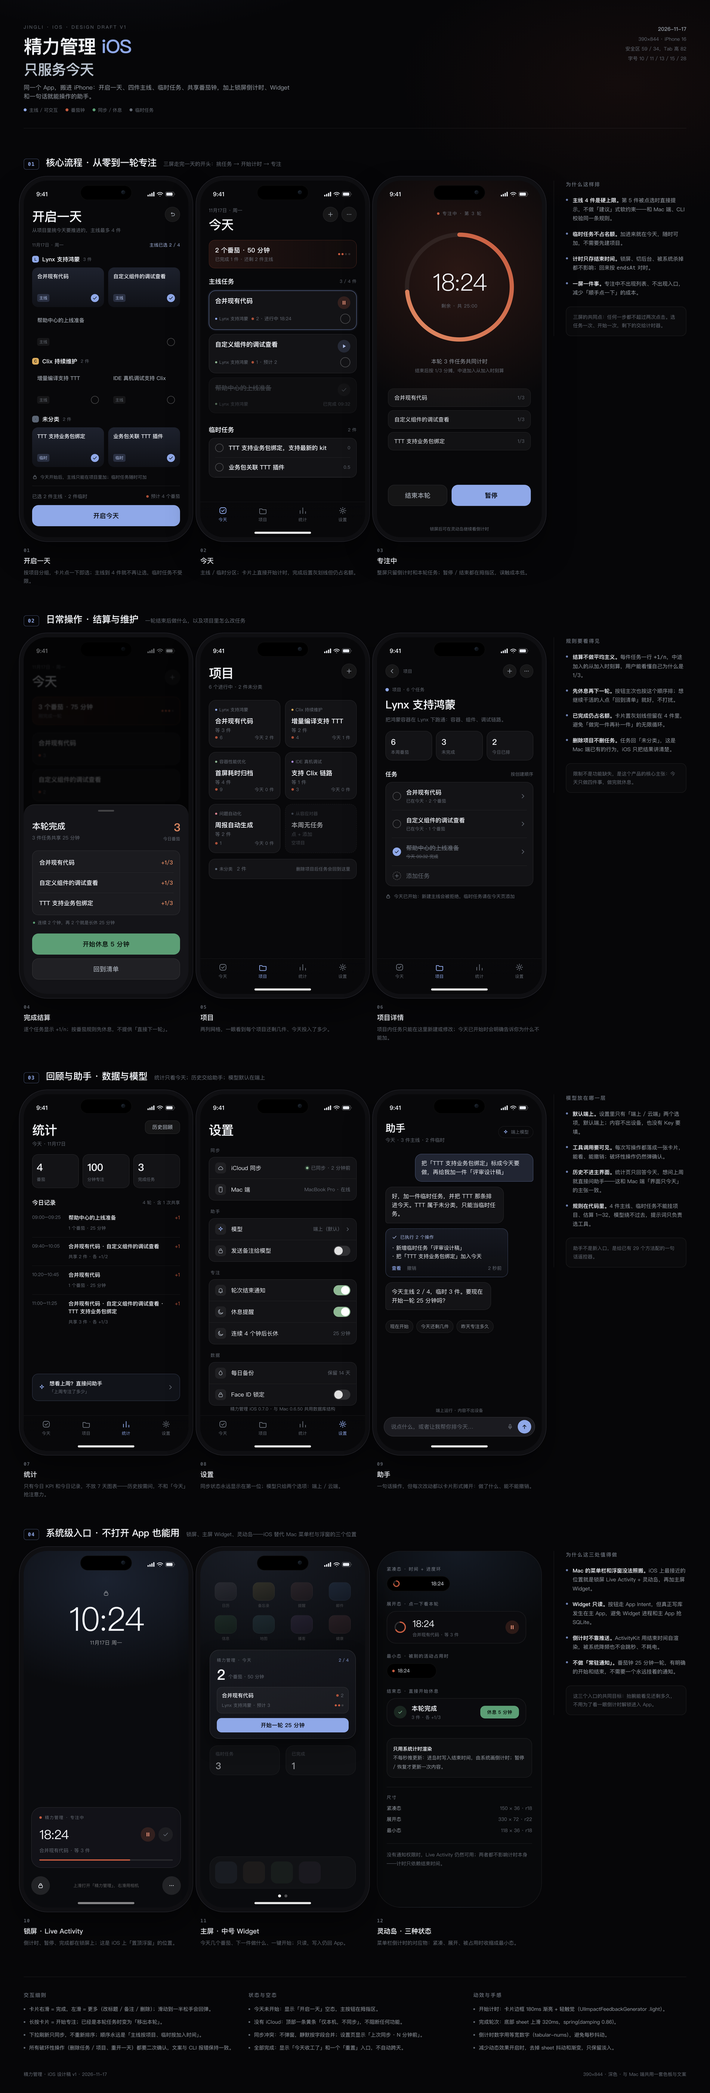
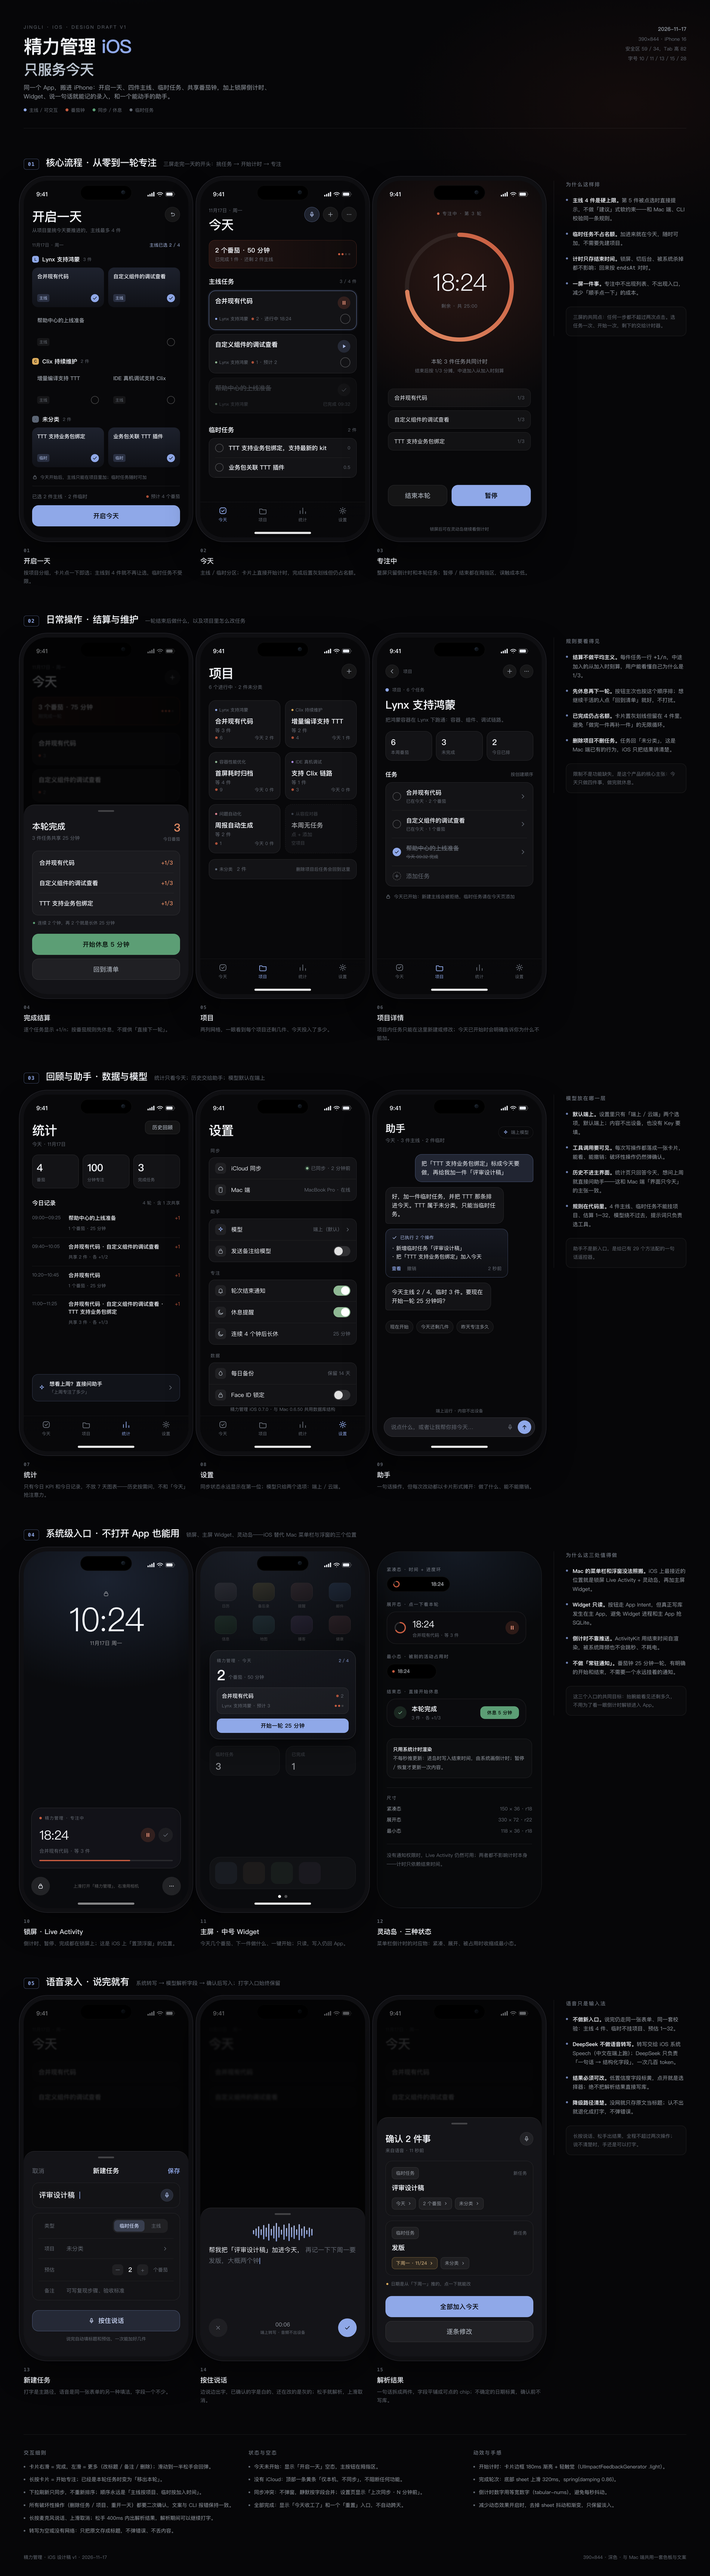
docs(ios): add voice entry screens and voice pipeline notes

diff --git a/Design/ios-design.html b/Design/ios-design.html
@@ -112,6 +112,20 @@
   .btn.ghost{background:rgba(255,255,255,.05);color:var(--text2);border:1px solid var(--line)}
   .btn.sm{height:36px;font-size:13px;border-radius:11px;padding:0 16px}
 
+  /* ---------- 语音录入 ---------- */
+  .seg{display:flex;background:rgba(255,255,255,.06);border-radius:11px;padding:3px;gap:3px}
+  .seg span{padding:5px 13px;border-radius:8px;font-size:11.5px;color:var(--text3)}
+  .seg span.on{background:rgba(143,168,232,.22);color:#C7D3F2;font-weight:500}
+  .field{display:flex;align-items:center;gap:10px;padding:13px 14px;border-bottom:1px solid rgba(255,255,255,.05);font-size:13.5px}
+  .field:last-child{border-bottom:0}
+  .field .k{color:var(--text3);font-size:12px;width:42px;flex:none}
+  .chipbtn{display:inline-flex;align-items:center;gap:5px;font-size:11px;padding:5px 9px;border-radius:8px;
+           background:rgba(255,255,255,.05);color:var(--text2);border:1px solid rgba(255,255,255,.07)}
+  .chipbtn.warn{background:rgba(219,171,92,.13);border-color:rgba(219,171,92,.34);color:#E8C48C}
+  .wave{display:flex;align-items:center;justify-content:center;gap:3px;height:46px}
+  .wave i{width:3px;border-radius:2px;background:linear-gradient(180deg,#B7C6F0,#8FA8E8);opacity:.9}
+  .caret{display:inline-block;width:1.5px;height:17px;background:var(--accent);vertical-align:-3px;margin-left:1px}
+
   /* ---------- 屏幕专有 ---------- */
   .grouphead{display:flex;align-items:center;gap:8px;margin:14px 0 9px}
   .grouphead .gdot{width:16px;height:16px;border-radius:5px;display:grid;place-items:center;font-size:9px;color:#0A0D14;font-weight:700}
@@ -269,6 +283,7 @@
 <body>
 <svg width="0" height="0" style="position:absolute" aria-hidden="true"><defs>
   <symbol id="i-check" viewBox="0 0 24 24"><path d="M5 12.5l4.6 4.6L19 7"/></symbol>
+  <symbol id="i-x" viewBox="0 0 24 24"><path d="M6.5 6.5l11 11M17.5 6.5l-11 11"/></symbol>
   <symbol id="i-plus" viewBox="0 0 24 24"><path d="M12 5v14M5 12h14"/></symbol>
   <symbol id="i-play" viewBox="0 0 24 24"><path d="M8.4 5.6l10 6.4-10 6.4z" fill="currentColor" stroke="none"/></symbol>
   <symbol id="i-pause" viewBox="0 0 24 24"><rect x="7.2" y="5" width="3.4" height="14" rx="1.2" fill="currentColor" stroke="none"/><rect x="13.4" y="5" width="3.4" height="14" rx="1.2" fill="currentColor" stroke="none"/></symbol>
@@ -298,7 +313,7 @@
     <div>
       <div class="eyebrow">Jingli · iOS · Design Draft v1</div>
       <h1>精力管理 <em>iOS</em><br><span style="font-size:34px;font-weight:600;color:#B9C2CE;letter-spacing:-.8px">只服务今天</span></h1>
-      <p class="lede">同一个 App，搬进 iPhone：开启一天、四件主线、临时任务、共享番茄钟，加上锁屏倒计时、Widget 和一句话就能操作的助手。</p>
+      <p class="lede">同一个 App，搬进 iPhone：开启一天、四件主线、临时任务、共享番茄钟，加上锁屏倒计时、Widget、说一句话就能记的录入，和一个能动手的助手。</p>
       <div class="legend">
         <span><i style="background:#8FA8E8"></i>主线 / 可交互</span>
         <span><i style="background:#C75C40"></i>番茄钟</span>
@@ -428,6 +443,8 @@
                 <h2 style="font-size:30px">今天</h2>
               </div>
               <div style="display:flex;gap:8px">
+                <div class="iconbtn lg" style="background:rgba(143,168,232,.16);color:#AFC0EC;border-color:rgba(143,168,232,.3)">
+                  <svg class="ic sm"><use href="#i-mic"/></svg></div>
                 <div class="iconbtn lg"><svg class="ic sm"><use href="#i-plus"/></svg></div>
                 <div class="iconbtn lg"><svg class="ic sm"><use href="#i-more"/></svg></div>
               </div>
@@ -1274,6 +1291,226 @@
     </div>
   </section>
 
+  <!-- ================= 05 语音录入 ================= -->
+  <section class="section" id="row5">
+    <div class="sec-head">
+      <span class="sec-no">05</span>
+      <span class="sec-title">语音录入 · 说完就有</span>
+      <span class="sec-desc">系统转写 → 模型解析字段 → 确认后写入；打字入口始终保留</span>
+    </div>
+    <div class="row">
+
+      <!-- 13 添加任务 -->
+      <div class="frame">
+        <div class="phone">
+          <div class="island"></div>
+          <div class="statusbar"><span>9:41</span><span class="right">
+            <svg width="17" height="11" viewBox="0 0 17 11" fill="currentColor"><rect x="0" y="7" width="3" height="4" rx="1"/><rect x="4.5" y="5" width="3" height="6" rx="1"/><rect x="9" y="2.6" width="3" height="8.4" rx="1"/><rect x="13.5" y="0" width="3" height="11" rx="1"/></svg>
+            <svg width="15" height="11" viewBox="0 0 15 11" fill="none" stroke="currentColor" stroke-width="1.6" stroke-linecap="round"><path d="M1 4.2a9 9 0 0 1 13 0"/><path d="M3.6 6.9a5.6 5.6 0 0 1 7.8 0"/><circle cx="7.5" cy="10" r=".9" fill="currentColor" stroke="none"/></svg>
+            <svg width="25" height="12" viewBox="0 0 25 12" fill="none"><rect x=".6" y=".6" width="20" height="10.8" rx="3.2" stroke="currentColor" opacity=".4"/><rect x="2.4" y="2.4" width="15" height="7.2" rx="2" fill="currentColor"/><path d="M22.4 4.2v3.6a2.4 2.4 0 0 0 0-3.6z" fill="currentColor" opacity=".5"/></svg>
+          </span></div>
+
+          <div class="screen tabbed" style="filter:blur(1.4px);opacity:.32">
+            <div class="nav" style="height:auto"><div><div class="sub" style="margin:0 0 2px">11月17日 · 周一</div><h2 style="font-size:30px">今天</h2></div></div>
+            <div class="task" style="margin-top:20px"><div class="r1"><h4>合并现有代码</h4></div></div>
+            <div class="task"><div class="r1"><h4>自定义组件的调试查看</h4></div></div>
+          </div>
+
+          <div class="sheetwrap">
+            <div class="sheet" style="height:486px;display:flex;flex-direction:column">
+              <div class="handle"></div>
+              <div style="display:flex;align-items:center;justify-content:space-between;margin-bottom:16px">
+                <span style="font-size:14.5px;color:var(--text3)">取消</span>
+                <b style="font-size:15.5px">新建任务</b>
+                <span style="font-size:14.5px;color:var(--accent);font-weight:600">保存</span>
+              </div>
+
+              <div class="card" style="padding:14px 15px;display:flex;align-items:center;gap:10px">
+                <span style="font-size:17px;font-weight:500">评审设计稿</span><span class="caret"></span>
+                <div class="iconbtn" style="margin-left:auto;width:30px;height:30px;background:rgba(143,168,232,.16);color:#AFC0EC">
+                  <svg class="ic sm"><use href="#i-mic"/></svg>
+                </div>
+              </div>
+
+              <div class="card" style="margin-top:12px;padding:0 14px">
+                <div class="field">
+                  <span class="k">类型</span>
+                  <div class="seg" style="margin-left:auto"><span class="on">临时任务</span><span>主线</span></div>
+                </div>
+                <div class="field">
+                  <span class="k">项目</span>
+                  <span style="color:var(--text3)">未分类</span>
+                  <svg class="ic xs" style="margin-left:auto;color:var(--text3)"><use href="#i-chev"/></svg>
+                </div>
+                <div class="field">
+                  <span class="k">预估</span>
+                  <div style="display:flex;align-items:center;gap:12px;margin-left:auto">
+                    <span style="width:26px;height:26px;border-radius:8px;background:rgba(255,255,255,.06);display:grid;place-items:center;color:var(--text3)">−</span>
+                    <b style="font-size:15px;font-variant-numeric:tabular-nums">2</b>
+                    <span style="width:26px;height:26px;border-radius:8px;background:rgba(255,255,255,.06);display:grid;place-items:center;color:var(--text3)">+</span>
+                    <span style="font-size:11.5px;color:var(--text3)">个番茄</span>
+                  </div>
+                </div>
+                <div class="field">
+                  <span class="k">备注</span>
+                  <span style="color:var(--text3);font-size:12.5px">可写复现步骤、验收标准</span>
+                </div>
+              </div>
+
+              <div style="margin-top:auto;padding-top:18px">
+                <div class="btn" style="background:rgba(143,168,232,.14);border:1px solid rgba(143,168,232,.3);color:#C7D3F2;gap:8px;display:flex;align-items:center;justify-content:center">
+                  <svg class="ic sm"><use href="#i-mic"/></svg>按住说话
+                </div>
+                <div style="margin-top:10px;text-align:center;font-size:10.5px;color:var(--text3)">
+                  说完自动填标题和预估，一次能加好几件
+                </div>
+              </div>
+            </div>
+          </div>
+          <div class="homebar"></div>
+        </div>
+        <div class="caption">
+          <div class="no">13</div><h3>新建任务</h3>
+          <p>打字是主路径，语音是同一张表单的另一种填法，字段一个不少。</p>
+        </div>
+      </div>
+
+      <!-- 14 录音中 -->
+      <div class="frame">
+        <div class="phone">
+          <div class="island"></div>
+          <div class="statusbar"><span>9:41</span><span class="right">
+            <svg width="17" height="11" viewBox="0 0 17 11" fill="currentColor"><rect x="0" y="7" width="3" height="4" rx="1"/><rect x="4.5" y="5" width="3" height="6" rx="1"/><rect x="9" y="2.6" width="3" height="8.4" rx="1"/><rect x="13.5" y="0" width="3" height="11" rx="1"/></svg>
+            <svg width="15" height="11" viewBox="0 0 15 11" fill="none" stroke="currentColor" stroke-width="1.6" stroke-linecap="round"><path d="M1 4.2a9 9 0 0 1 13 0"/><path d="M3.6 6.9a5.6 5.6 0 0 1 7.8 0"/><circle cx="7.5" cy="10" r=".9" fill="currentColor" stroke="none"/></svg>
+            <svg width="25" height="12" viewBox="0 0 25 12" fill="none"><rect x=".6" y=".6" width="20" height="10.8" rx="3.2" stroke="currentColor" opacity=".4"/><rect x="2.4" y="2.4" width="15" height="7.2" rx="2" fill="currentColor"/><path d="M22.4 4.2v3.6a2.4 2.4 0 0 0 0-3.6z" fill="currentColor" opacity=".5"/></svg>
+          </span></div>
+
+          <div class="screen tabbed" style="filter:blur(2px);opacity:.3">
+            <div class="nav" style="height:auto"><div><div class="sub" style="margin:0 0 2px">11月17日 · 周一</div><h2 style="font-size:30px">今天</h2></div></div>
+            <div class="task" style="margin-top:20px"><div class="r1"><h4>合并现有代码</h4></div></div>
+            <div class="task"><div class="r1"><h4>自定义组件的调试查看</h4></div></div>
+          </div>
+
+          <div class="sheetwrap" style="background:rgba(0,0,0,.62)">
+            <div class="sheet" style="height:352px;display:flex;flex-direction:column">
+              <div class="handle"></div>
+
+              <div class="wave">
+                <i style="height:10px"></i><i style="height:18px"></i><i style="height:28px"></i><i style="height:14px"></i>
+                <i style="height:34px"></i><i style="height:22px"></i><i style="height:40px"></i><i style="height:16px"></i>
+                <i style="height:30px"></i><i style="height:44px"></i><i style="height:26px"></i><i style="height:12px"></i>
+                <i style="height:36px"></i><i style="height:20px"></i><i style="height:42px"></i><i style="height:24px"></i>
+                <i style="height:32px"></i><i style="height:14px"></i><i style="height:38px"></i><i style="height:18px"></i>
+                <i style="height:28px"></i><i style="height:10px"></i><i style="height:22px"></i><i style="height:16px"></i>
+              </div>
+
+              <div style="margin-top:6px;font-size:15px;line-height:1.7;letter-spacing:-.1px">
+                帮我把「评审设计稿」加进今天，
+                <span style="color:var(--text3)">再记一下下周一要发版，大概两个钟</span><span class="caret" style="height:15px"></span>
+              </div>
+
+              <div style="display:flex;align-items:center;justify-content:space-between;margin-top:auto;padding-bottom:12px">
+                <div class="circle ghost" style="width:44px;height:44px"><svg class="ic sm"><use href="#i-x"/></svg></div>
+                <div style="text-align:center">
+                  <div style="font-size:13px;font-variant-numeric:tabular-nums;color:var(--text2)">00:06</div>
+                  <div style="font-size:9.5px;color:var(--text3);margin-top:2px">端上转写 · 音频不出设备</div>
+                </div>
+                <div class="circle" style="width:44px;height:44px;background:var(--accent);color:#0A0D14">
+                  <svg class="ic sm"><use href="#i-check"/></svg></div>
+              </div>
+            </div>
+          </div>
+          <div class="homebar"></div>
+        </div>
+        <div class="caption">
+          <div class="no">14</div><h3>按住说话</h3>
+          <p>边说边出字，已确认的字是白的、还在改的是灰的；松手就解析，上滑取消。</p>
+        </div>
+      </div>
+
+      <!-- 15 解析结果 -->
+      <div class="frame">
+        <div class="phone">
+          <div class="island"></div>
+          <div class="statusbar"><span>9:41</span><span class="right">
+            <svg width="17" height="11" viewBox="0 0 17 11" fill="currentColor"><rect x="0" y="7" width="3" height="4" rx="1"/><rect x="4.5" y="5" width="3" height="6" rx="1"/><rect x="9" y="2.6" width="3" height="8.4" rx="1"/><rect x="13.5" y="0" width="3" height="11" rx="1"/></svg>
+            <svg width="15" height="11" viewBox="0 0 15 11" fill="none" stroke="currentColor" stroke-width="1.6" stroke-linecap="round"><path d="M1 4.2a9 9 0 0 1 13 0"/><path d="M3.6 6.9a5.6 5.6 0 0 1 7.8 0"/><circle cx="7.5" cy="10" r=".9" fill="currentColor" stroke="none"/></svg>
+            <svg width="25" height="12" viewBox="0 0 25 12" fill="none"><rect x=".6" y=".6" width="20" height="10.8" rx="3.2" stroke="currentColor" opacity=".4"/><rect x="2.4" y="2.4" width="15" height="7.2" rx="2" fill="currentColor"/><path d="M22.4 4.2v3.6a2.4 2.4 0 0 0 0-3.6z" fill="currentColor" opacity=".5"/></svg>
+          </span></div>
+
+          <div class="screen tabbed" style="filter:blur(1.4px);opacity:.3">
+            <div class="nav" style="height:auto"><div><div class="sub" style="margin:0 0 2px">11月17日 · 周一</div><h2 style="font-size:30px">今天</h2></div></div>
+            <div class="task" style="margin-top:20px"><div class="r1"><h4>合并现有代码</h4></div></div>
+            <div class="task"><div class="r1"><h4>自定义组件的调试查看</h4></div></div>
+          </div>
+
+          <div class="sheetwrap">
+            <div class="sheet" style="height:566px;display:flex;flex-direction:column">
+              <div class="handle"></div>
+              <div style="display:flex;align-items:flex-start;justify-content:space-between;margin-bottom:16px">
+                <div>
+                  <div style="font-size:21px;font-weight:700;letter-spacing:-.5px">确认 2 件事</div>
+                  <div style="font-size:11px;color:var(--text3);margin-top:4px">来自语音 · 11 秒前</div>
+                </div>
+                <div class="iconbtn"><svg class="ic sm"><use href="#i-mic"/></svg></div>
+              </div>
+
+              <div class="card" style="padding:14px">
+                <div style="display:flex;align-items:center;gap:7px">
+                  <span class="chipbtn">临时任务</span>
+                  <span class="tag" style="margin-left:auto">新任务</span>
+                </div>
+                <div style="font-size:15.5px;font-weight:600;margin-top:9px;letter-spacing:-.2px">评审设计稿</div>
+                <div style="display:flex;gap:7px;margin-top:11px;flex-wrap:wrap">
+                  <span class="chipbtn">今天<svg class="ic xs" style="width:10px;height:10px"><use href="#i-chev"/></svg></span>
+                  <span class="chipbtn">2 个番茄<svg class="ic xs" style="width:10px;height:10px"><use href="#i-chev"/></svg></span>
+                  <span class="chipbtn">未分类<svg class="ic xs" style="width:10px;height:10px"><use href="#i-chev"/></svg></span>
+                </div>
+              </div>
+
+              <div class="card" style="padding:14px;margin-top:11px">
+                <div style="display:flex;align-items:center;gap:7px">
+                  <span class="chipbtn">临时任务</span>
+                  <span class="tag" style="margin-left:auto">新任务</span>
+                </div>
+                <div style="font-size:15.5px;font-weight:600;margin-top:9px;letter-spacing:-.2px">发版</div>
+                <div style="display:flex;gap:7px;margin-top:11px;flex-wrap:wrap">
+                  <span class="chipbtn warn">下周一 · 11/24<svg class="ic xs" style="width:10px;height:10px"><use href="#i-chev"/></svg></span>
+                  <span class="chipbtn">未分类<svg class="ic xs" style="width:10px;height:10px"><use href="#i-chev"/></svg></span>
+                </div>
+              </div>
+
+              <div style="display:flex;align-items:center;gap:6px;margin:12px 2px 0;font-size:10.5px;color:var(--text3)">
+                <span style="width:5px;height:5px;border-radius:50%;background:var(--amber)"></span>日期是从「下周一」推的，点一下就能改
+              </div>
+
+              <div style="margin-top:auto;padding-top:16px">
+                <div class="btn primary">全部加入今天</div>
+                <div class="btn ghost" style="margin-top:9px">逐条修改</div>
+              </div>
+            </div>
+          </div>
+          <div class="homebar"></div>
+        </div>
+        <div class="caption">
+          <div class="no">15</div><h3>解析结果</h3>
+          <p>一句话拆成两件，字段平铺成可点的 chip；不确定的日期标黄，确认前不写库。</p>
+        </div>
+      </div>
+
+      <aside class="notes">
+        <h4>语音只是输入法</h4>
+        <ul>
+          <li><b>不做新入口。</b>说完仍走同一张表单、同一套校验：主线 4 件、临时不挂项目、预估 1–32。</li>
+          <li><b>DeepSeek 不做语音转写。</b>转写交给 iOS 系统 Speech（中文在端上跑）；DeepSeek 只负责「一句话 → 结构化字段」，一次几百 token。</li>
+          <li><b>结果必须可改。</b>低置信度字段标黄，点开就是选择器；绝不把解析结果直接写库。</li>
+          <li><b>降级路径清楚。</b>没网就只存原文当标题；认不出就退化成打字，不弹错误。</li>
+        </ul>
+        <div class="quote">长按说话、松手出结果，全程不超过两次操作；说不清楚时，手还是可以打字。</div>
+      </aside>
+    </div>
+  </section>
+
   <!-- ================= 细则 ================= -->
   <section class="rules">
     <div>
@@ -1283,6 +1520,8 @@
         <li>长按卡片 = 开始专注；已经是本轮任务时变为「移出本轮」。</li>
         <li>下拉刷新只同步，不重新排序；顺序永远是「主线按项目、临时按加入时间」。</li>
         <li>所有破坏性操作（删除任务 / 项目、重开一天）都要二次确认，文案与 CLI 报错保持一致。</li>
+        <li>长按麦克风说话、上滑取消；松手 400ms 内出解析结果，解析期间可以继续打字。</li>
+        <li>转写为空或没有网络：只把原文存成标题，不弹错误、不丢内容。</li>
       </ul>
     </div>
     <div>
@@ -1312,7 +1551,7 @@
 </div>
 <script>
 (function(){
-  var m = location.hash.match(/^#(row[1-4])$/);
+  var m = location.hash.match(/^#(row[1-9])$/);
   if(!m) return;
   var keep = document.getElementById(m[1]);
   if(!keep) return;

diff --git a/Design/README.md b/Design/README.md
@@ -3,7 +3,7 @@
 - `精力管理-Mac应用设计稿.pdf`：原始 4 页设计稿（开启一天、今日 + 浮窗、完成弹窗、统计）。
 - `preview/`：从 PDF 导出的 1440×900 PNG，README 直接引用。
 - `AppIcon/`：App 图标源文件、squircle 版本、iconset、icns。
-- `ios-design.html`：iOS 版 12 屏设计稿（HTML + CSS，无外部依赖，直接用浏览器打开）。
+- `ios-design.html`：iOS 版 15 屏设计稿（HTML + CSS，无外部依赖，直接用浏览器打开）。
 
 ## 重新导出预览图
 
@@ -15,7 +15,7 @@ swift /tmp/render-pdf.swift "Design/精力管理-Mac应用设计稿.pdf" Design/
 
 ## iOS 设计稿
 
-`ios-design.html` 按四组排列 12 屏：
+`ios-design.html` 按五组排列 15 屏：
 
 | 组 | 屏 |
 |---|---|
@@ -23,12 +23,13 @@ swift /tmp/render-pdf.swift "Design/精力管理-Mac应用设计稿.pdf" Design/
 | `#row2` 日常操作 | 完成结算 / 项目 / 项目详情 |
 | `#row3` 回顾与助手 | 统计 / 设置 / 助手 |
 | `#row4` 系统级入口 | 锁屏 Live Activity / 主屏 Widget / 灵动岛三态 |
+| `#row5` 语音录入 | 新建任务 / 按住说话 / 解析结果 |
 
 导出单组（`#rowN` 只渲染那一行）与整页长图：
 
 ```bash
 CHROME="/Applications/Google Chrome.app/Contents/MacOS/Google Chrome"
-for n in 1 2 3 4; do
+for n in 1 2 3 4 5; do
   "$CHROME" --headless --disable-gpu --hide-scrollbars --force-device-scale-factor=2 \
     --window-size=1680,1160 --screenshot="/tmp/ios-row$n.png" \
     "file://$PWD/Design/ios-design.html#row$n"
@@ -38,7 +39,7 @@ done
   "file://$PWD/Design/ios-design.html"
 ```
 
-产物在 `preview/`：`ios-01-flow.png` … `ios-04-system.png`（1680 宽）、`ios-overview.png`（1440 宽整页）。
+产物在 `preview/`：`ios-01-flow.png` … `ios-05-voice.png`（1680 宽）、`ios-overview.png`（1440 宽整页）。
 
 设计口径与 Mac 端一致：只管理今天、主线最多 4 件、临时任务不挂项目、计时固定 25 分钟、统计不做历史图表；差别只在系统入口（锁屏 / Widget / 灵动岛替代菜单栏与浮窗）。
 

diff --git a/README.md b/README.md
@@ -22,7 +22,7 @@
 
 > 设计稿第 4 页包含「近 7 天番茄钟」柱状图；当前版本的界面没有做这张图，统计页只展示今日 KPI 和今日记录。历史回顾通过 Agent 的按天查询完成。
 
-iOS 版设计稿（12 屏，纯 HTML，浏览器直接打开）：[`Design/ios-design.html`](Design/ios-design.html) · [整页预览](Design/preview/ios-overview.png)
+iOS 版设计稿（15 屏，纯 HTML，浏览器直接打开）：[`Design/ios-design.html`](Design/ios-design.html) · [整页预览](Design/preview/ios-overview.png)
 
 ## 它解决什么问题
 
